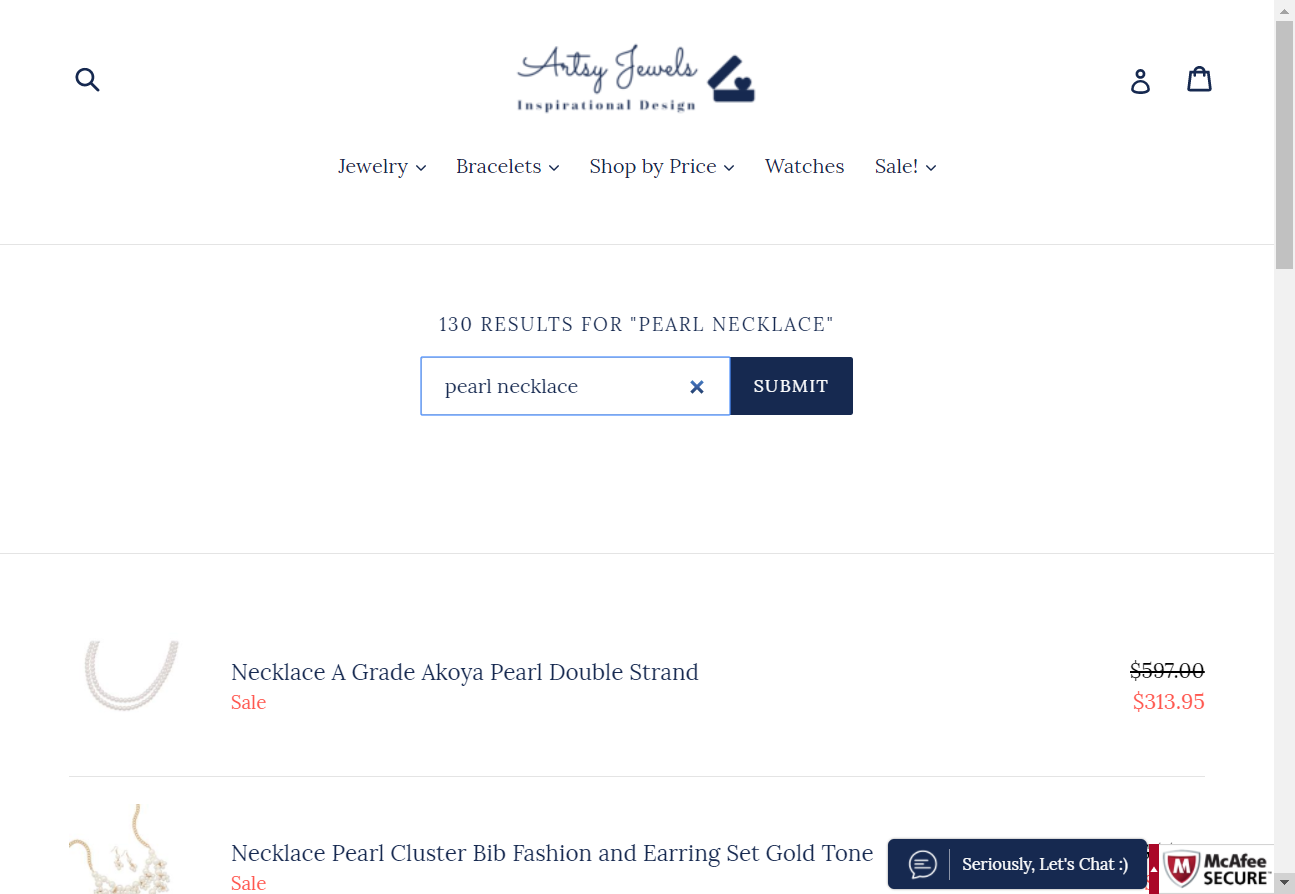
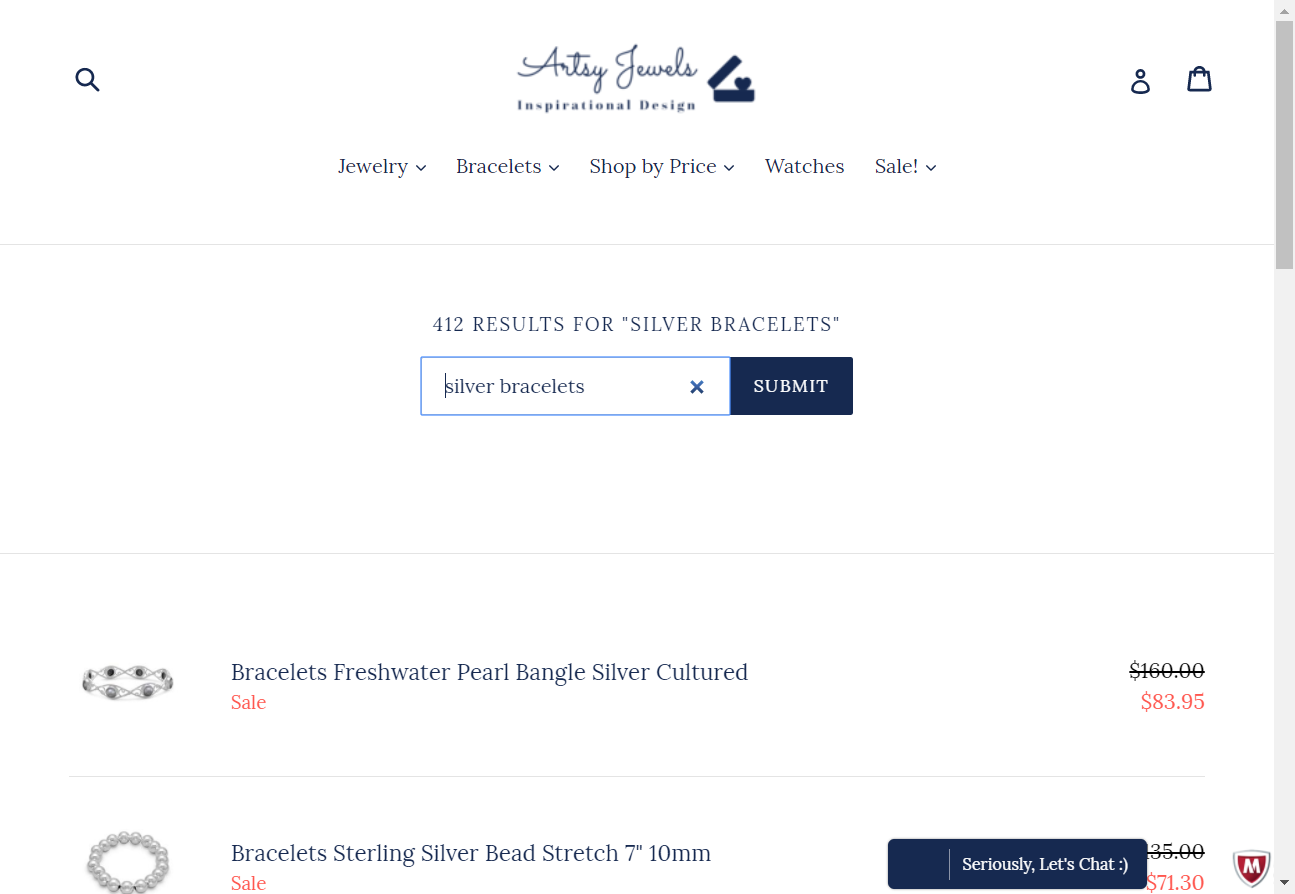
arrange the test files

diff --git a/tests/artsyjewels/case2.js b/tests/artsyjewels/case2.js
@@ -7,8 +7,11 @@ module.exports = {
       .url(`https://www.artsyjewels.com/`)
       .waitForElementVisible('body', 1000)
       .assert.title('Artsyjewels- High quality fashion jewelry at a reasonable price')
-      .setValue('#shopify-section-header > div > header > div > div.grid__item.small--hide.medium-up--one-third > div > form > input', ['pearl necklace', browser.Keys.ENTER])
-      .pause(5000)
+      .setValue('#shopify-section-header > div > header > div > div.grid__item.small--hide.medium-up--one-third > div > form > input', ['silver bracelets', browser.Keys.ENTER])
+      .pause(1000)
+    browser
+      .assert.title('silver bracelets – Artsyjewels')
+      .assert.urlContains('https://www.artsyjewels.com/search?q=silver+bracelets');
     browser.saveScreenshot('./screenshots/case2-2.jpg')
       .end()
   }

diff --git a/tests/artsyjewels/case4.js b/tests/artsyjewels/case4.js
@@ -1,0 +1,16 @@
+// 忘記密碼
+
+module.exports = {
+  tags: ['testcase4'],
+  'Go to Login Page and existign user should login': function (browser) {
+    browser
+      .url('http://www.artsyjewels.com')
+      .waitForElementVisible('body', 1000)
+      .click('#shopify-section-header > div > header > div > div.grid__item.small--one-half.medium-up--one-third.text-right.site-header__icons.site-header__icons--plus > div > a.site-header__account')
+      .click('#RecoverPassword')
+      .setValue('#RecoverEmail', ['linao2645900@yahoo.com.tw', browser.Keys.ENTER])
+      // .click('#RecoverPasswordForm > div.form-vertical > form > div > p > input')
+      .pause(3000)
+      .end();
+  }
+};
